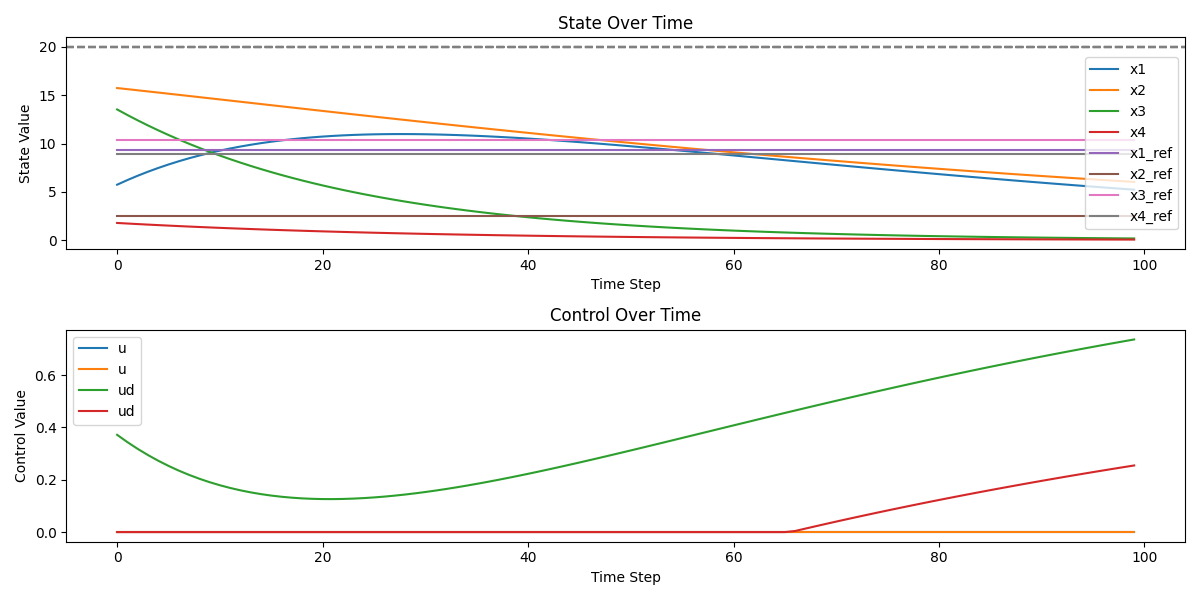
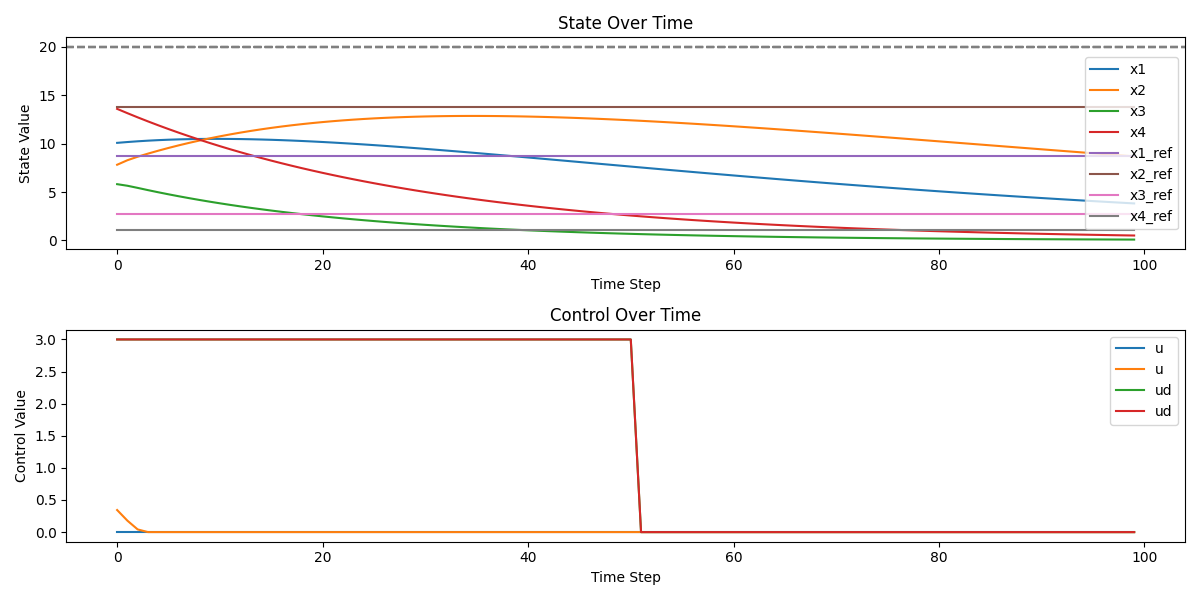
train and test tank but no good results, before try epsilon-greedy policy

diff --git a/learning-qp-master/src/psf/integrated_env_creators.py b/learning-qp-master/src/psf/integrated_env_creators.py
@@ -59,8 +59,8 @@ class Integrated_env:
             self.noise_values = [0.,0., 0.5, 1., 2., 3., 5., 6., 7., 8., 10., 12., 15.]
             self.noise = 5 * torch.ones((self.bs, 1), device=self.device)   # 初始默认值
         elif env_name == "tank":
-            self.noise_values = [0.,0., 0.3, 0.5, 1., 2., 3., 5., 6., 8., 10., 12.]
-            self.noise = 1 * torch.ones((self.bs, self.m), device=self.device)   # 初始默认值
+            self.noise_values = [0., 0., 0.05, 0.1, 0.2, 0.3, 0.5, 1., 3., 5., 10.]
+            self.noise = 0.1 * torch.ones((self.bs, self.m), device=self.device)   # 初始默认值
         
         self.stats = pd.DataFrame(columns=['i', 'cumulative_deviation'])
         self.cum_deviation = torch.zeros((self.bs,), device=self.device)
@@ -68,6 +68,7 @@ class Integrated_env:
         self.run_name = self.env.run_name
         self.step_count = self.env.step_count
         self.ud = torch.zeros((self.bs, self.m), device=self.device)
+        self.ud_type = torch.zeros((self.bs, 1), device=self.device)       # 决定训练时使用的ud类型（0代表LQR+噪声，1代表bangbang控制
         
     # def get_noise(self):
     #     # 创建一个Beta分布，alpha和beta的值可以根据需要调整
@@ -84,25 +85,27 @@ class Integrated_env:
             # generate randomly (only work for action_dim = 1)
             # ud = self.u_min + (self.u_max - self.u_min) * torch.rand(self.env.bs, device=self.device)
             
-            # noise = self.get_noise()
-            # noise = 0.3
-            v = (self.noise * torch.randn((self.bs, self.m), device=self.device))
-            ud = self.env.get_action_LQR(noise_level = 0) + v  # 双重噪声
-            # ud = v
-            ud = ud.clamp(self.env.u_min, self.env.u_max)
-            # ud = ud.squeeze(-1)
+            # LQR+noise
+            # self.noise = torch.zeros((self.bs, self.m), device=self.device)     # 只用0噪声训练
+            # v = (self.noise * torch.randn((self.bs, self.m), device=self.device))
+            # ud = self.env.get_action_LQR(noise_level = 0) + v  # 单重噪声
+            # ud = ud.clamp(self.env.u_min, self.env.u_max)
+            
+            # bangbang control
+            ud = torch.where((self.step_count <= 50).unsqueeze(1), torch.full_like(self.ud, 1),  torch.zeros_like(self.ud))
+
         elif self.train_or_test == "test":    
             # bang-bang control (使用 torch.where 来向量化条件操作
             # ud = torch.where(theta >= 0.2, torch.full_like(theta, self.u_max), torch.where(theta <= -0.2, torch.full_like(theta, self.u_min), torch.zeros_like(theta)))
-            ud = torch.where(self.step_count <= 50, torch.full_like(self.ud, 3),  torch.zeros_like(self.ud))
+            ud = torch.where((self.step_count <= 50).unsqueeze(1), torch.full_like(self.ud, 1),  torch.zeros_like(self.ud))
             
             # LQR control
-            # noise = 0.1
+            # noise = 0
             # v = (noise * torch.randn((self.bs, self.m), device=self.device))
-            # ud = self.env.get_action_LQR(noise_level = noise) + v  # 双重噪声
+            # ud = self.env.get_action_LQR(noise_level = 0) + v  # 双重噪声（感觉太难了，先换成单重了。
             # ud = ud.clamp(self.env.u_min, self.env.u_max)
-            # ud = ud.squeeze(-1)
-
+            
+        # ud = ud.squeeze(-1)
         self.ud = ud
         return ud
     
@@ -145,15 +148,15 @@ class Integrated_env:
     def reward(self,original_reward, action):
         if self.env_name == "double_integrator":
             coef_safety = -120.0
-            coef_deviation = 50.0
+            coef_deviation = -50.0
             coef_survival = 10.0 
-            coef_terminate = 1.
+            coef_terminate = -1.
             zero_deviation_reward = 10.
         elif self.env_name == "cartpole":
             coef_safety = -200.0
-            coef_deviation = 20.0
+            coef_deviation = -20.0
             coef_survival = 100.0  
-            coef_terminate = 1000000.
+            coef_terminate = -1000000.
             zero_deviation_reward = 80.
             # initial
             # coef_safety = -2000.0
@@ -163,10 +166,12 @@ class Integrated_env:
             # zero_deviation_reward = 100.
         elif self.env_name == "tank":
             coef_safety = -200.0
-            coef_deviation = 100.0
+            coef_deviation = -300.0
             coef_survival = 100.0  
-            coef_terminate = 1000000.
-            zero_deviation_reward = 100.
+            coef_terminate = -1000000.
+            # coef_survival = 0.0  
+            # coef_terminate = -0.
+            zero_deviation_reward = 200.
             
         # safe cost
         original_safe_cost = original_reward
@@ -181,13 +186,13 @@ class Integrated_env:
         
         # deviation_cost = -coef_deviation * deviation
         # 当 deviation 不等于 0 时，计算 deviation_cost；否则，设置为 10
-        deviation_cost = torch.where(deviation == 0, torch.full_like(deviation, zero_deviation_reward), -coef_deviation * deviation)
+        deviation_cost = torch.where(deviation == 0, torch.full_like(deviation, zero_deviation_reward), coef_deviation * deviation)
         
         # survival_reward
         survival_reward = coef_survival  # 每个步骤的存活奖励
 
         # 添加提前terminate惩罚
-        terminate_cost = -coef_terminate * (self.env.is_done == 1)
+        terminate_cost = coef_terminate * (self.env.is_done == 1)
 
         combined_reward = safe_cost + deviation_cost + survival_reward + terminate_cost  # 注意正负号！！！
 
@@ -242,8 +247,12 @@ class Integrated_env:
         """
         self.already_on_stats[i] = 1
         cumulative_deviation = self.cum_deviation[i].item()
-        avg_deviation = self.cum_deviation.mean().item()
-        ic(avg_deviation)
+        ic(i)
+        ic(cumulative_deviation)
+        # 只在最后的时候输出一次avg_deviation
+        if i==self.bs-1 :
+            avg_deviation = self.cum_deviation.mean().item()
+            ic(avg_deviation)
         self.stats.loc[len(self.stats)] = [i.item(),  cumulative_deviation]
         
     def dump_stats(self, filename=None):

diff --git a/learning-qp-master/src/modules/qp_unrolled_network.py b/learning-qp-master/src/modules/qp_unrolled_network.py
@@ -13,6 +13,8 @@ from ..utils.np_batch_op import np_batch_op
 import os
 from concurrent.futures import ThreadPoolExecutor
 from ..utils.sets import compute_MCI, construct_polyhedron_from_mci
+from src.envs.env_creators import sys_param
+
 
 
 class StrictAffineLayer(nn.Module):
@@ -200,6 +202,8 @@ class QPUnrolledNetwork(nn.Module):
         P_inv[0, 0] = 1        
         P_inv = P_inv.to(device)
         self.Pinv = P_inv    # shape: (nqp,nqp)
+        
+        self.m_sys = sys_param[env_name]["m"]
 
 
     def initialize_solver(self):
@@ -442,11 +446,13 @@ class QPUnrolledNetwork(nn.Module):
             b = self.get_b(x, mlp_out)
             
             # 获取 x 的最后一个数据，并增加新的维度，生成形状为 (batch_size, 1) 的张量
-            ud = x[:, -1].unsqueeze(-1)
+            # ud = x[:, -1].unsqueeze(-1)
+            ud = x[:, -self.m_sys:]
             # 创建一个形状为 (batch_size, n_qp) 的全零张量
             q_vector = torch.zeros((bs, self.n_qp), device=self.device)
             # 将 last_data_unsqueezed 赋值给 result_vector 的第一个元素
-            q_vector[:, 0] = -ud.squeeze(-1)  # 赋值并去除多余的维度
+            # q_vector[:, 0] = -ud.squeeze(-1)  # 赋值并去除多余的维度
+            q_vector[:, :self.m_sys] = -ud
             q = q_vector
             if self.force_feasible:
                 zeros_1 = torch.zeros((bs, 1), device=self.device)

diff --git a/learning-qp-master/run.py b/learning-qp-master/run.py
@@ -224,6 +224,7 @@ if __name__ == "__main__":
             checkpoint_dir = f"runs/{full_experiment_name}/nn"
             if args.epoch_index == -1:
                 checkpoint_name = f"{checkpoint_dir}/{args.env}.pth"
+                # checkpoint_name = f"{checkpoint_dir}/last_tankep200000rew_-471861.34_.pth"
             else:
                 list_of_files = glob.glob(f"{checkpoint_dir}/last_{args.env}_ep_{args.epoch_index}_rew_*.pth")
                 checkpoint_name = max(list_of_files, key=os.path.getctime)

diff --git a/learning-qp-master/src/envs/env_creators.py b/learning-qp-master/src/envs/env_creators.py
@@ -59,7 +59,7 @@ sys_param = {
         "x_safe_min": 0,
         "x_safe_max": 20,
         "u_min": 0,
-        "u_max": 8,
+        "u_max": 1,
         "states_min": np.array([[0], [0], [0], [0]]),
         "states_max": np.array([[22], [22], [22], [22]]),
         "states_safe_min": np.array([[0], [0], [0], [0]]),
